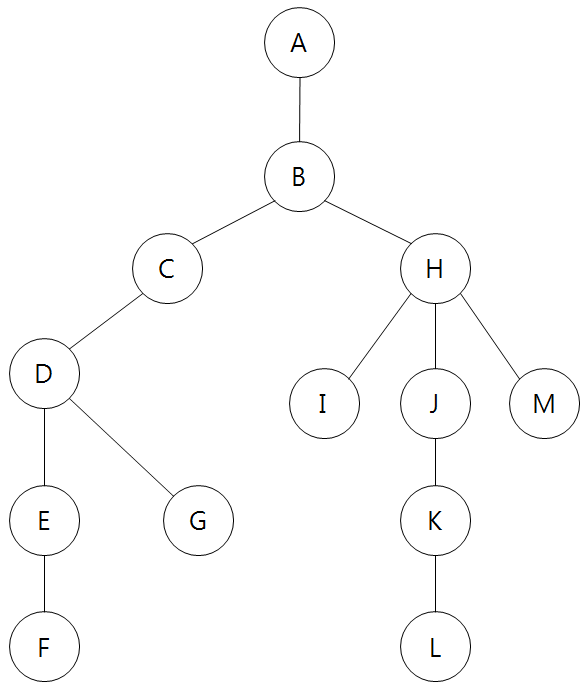
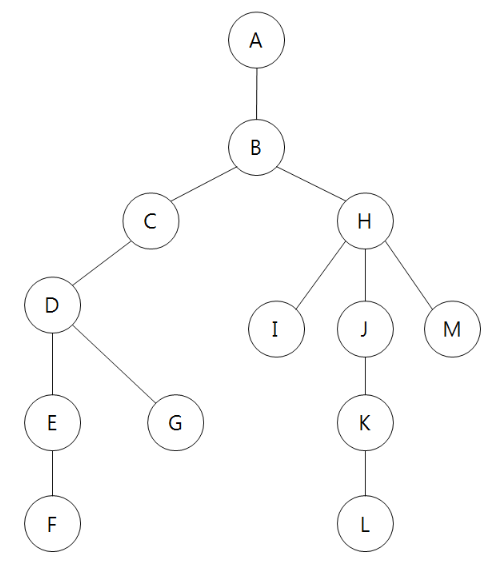
Add: add new file

diff --git a/algorithm/Data Structure.md b/algorithm/Data Structure.md
@@ -7,7 +7,7 @@
 - 한 종류의 데이터가 선처럼 길게 나열된 자료구조
 - 모든 자료에 O(1)으로 접근이 보장되는 자료구조에는 배열과 해시(key:value)가 있음
 - 파이썬에서는 (배열=리스트), (해시=딕셔너리)
-- 하단부터는 모든 자료에 O(1) 접그이 보장되지 않는 자료구조를 설명
+- 하단부터는 모든 자료에 O(1) 접근이 보장되지 않는 자료구조를 설명
 
 <br>
 
@@ -17,7 +17,7 @@
 
 - 자료를 넣는 push 함수와 자료를 빼는 pop 함수 (empty, full 등 ..)
 
-- 시간 복잡도
+- 시간 복잡도 (Time Complexity)
 
   - push : O(1)
   - pop : O(1)
@@ -118,7 +118,7 @@
 
 - 자료를 넣는 Enquueu 함수와 자료를 빼는 Dequeue 함수
 
-- 시간 복잡도
+- 시간 복잡도 (Time Complexity)
 
   - enqueue : O(1)
   - dequeue : O(N)
@@ -194,7 +194,7 @@
 
 ### Linked list
 
-- = 연결 리스트, 값과 다음 노드를 가짐
+- (= 연결 리스트), 값과 다음 노드를 가짐
 
 - 중간에서 삽입 삭제 가능
 
@@ -337,7 +337,7 @@
   3. 더 이상 들어갈 길이 없을 때(인접한 모든 정점이 이미 방문한 정점일 때), 방문하지 않은 인접한 정점을 찾을 때까지 들어간 길을 돌아나옴
   4. 위 과정을 반복
 
-   <img src="..\img\dfs.png" alt="img" style="zoom: 20%;" />
+   <img src="..\img\dfs.png" alt="img" style="zoom: 60%;" />
   
   ```python
   def dfs(v):		# 정점 v부터 탐색
@@ -394,7 +394,7 @@
   4. 큐에 있는 정점에 대해 인접하면서 아직 방문하지 않은 정점들로 새로운 큐를 구성
   5. 위 과정을 반복
 
-   <img src="..\img\dfs.png" alt="img" style="zoom: 20%;" />
+   <img src="..\img\dfs.png" alt="img" style="zoom: 60%;" />
 
   ```python
   def bfs(v):
